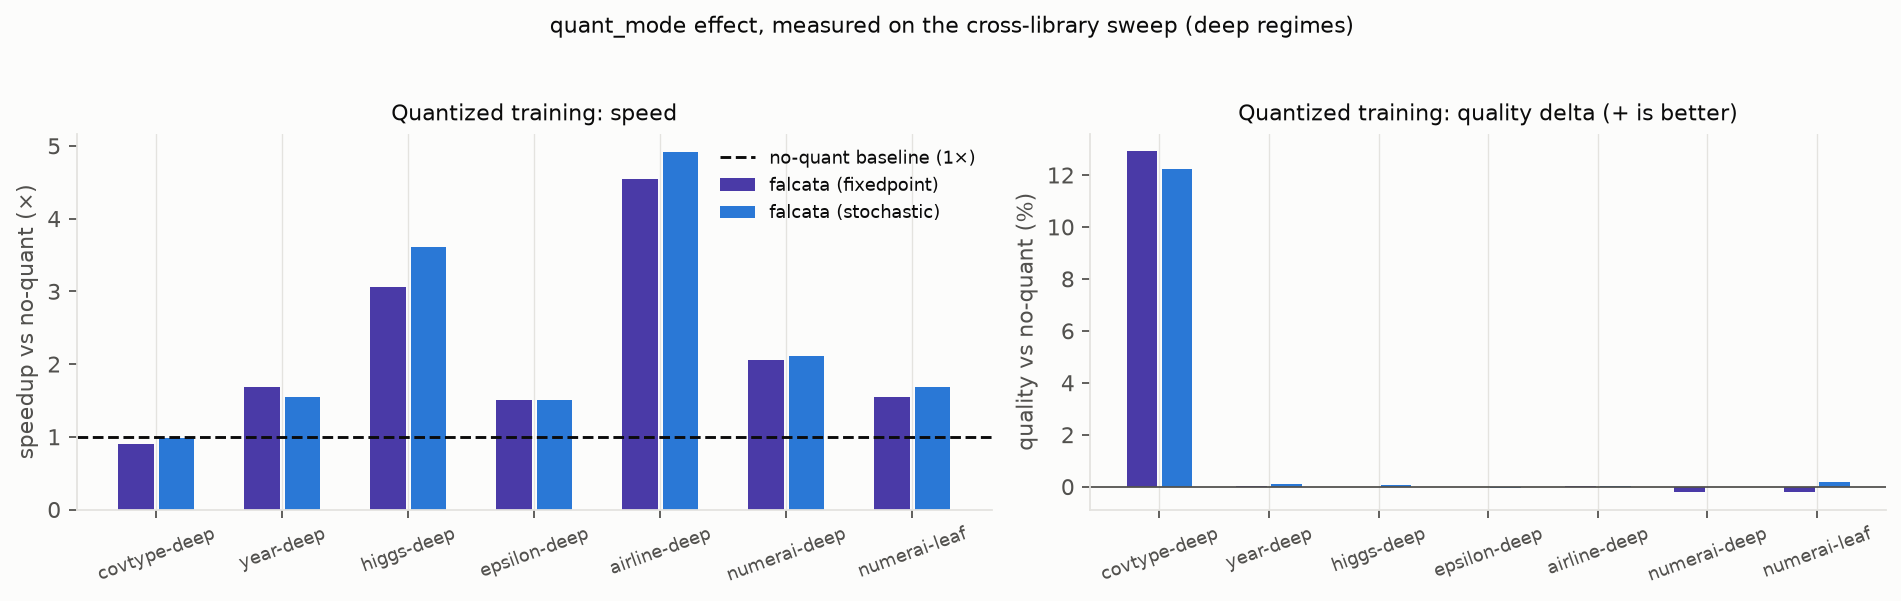
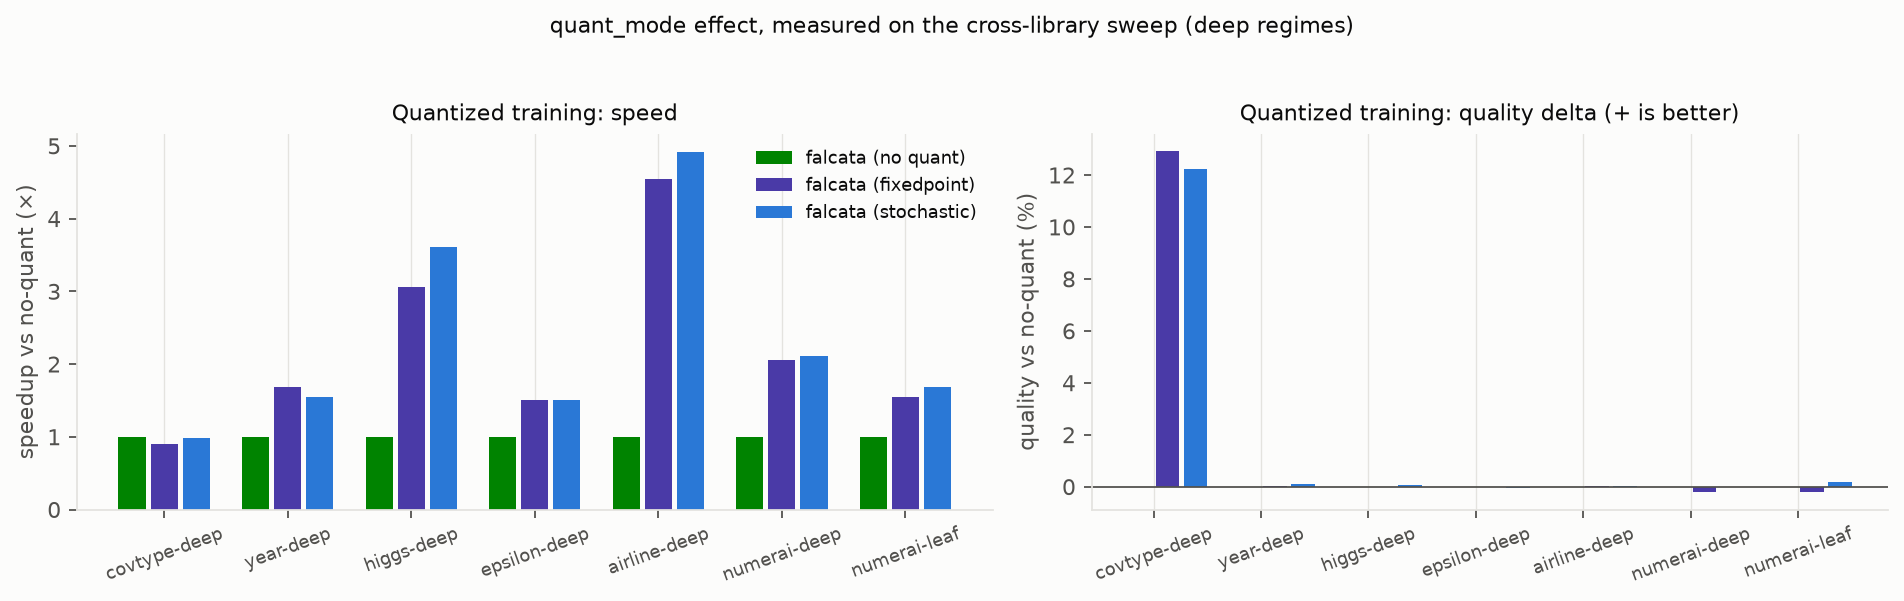
docs: give no-quant its own bar in the quant-mode speed plot
Was a dashed 1x rule to compare the two quantized bars against. A bar per
dataset instead, same treatment as the scoreboard plot: comparing bar heights
inside a group is easier than bar-against-rule, and it makes the one cell where
quantization is a slowdown -- covtype-deep, both modes under the green -- read
at a glance instead of needing the eye to track a line across the axes.

The quality panel keeps its zero rule: that is the axis reference for a delta,
not a baseline series, so a bar of height zero would say nothing.

diff --git a/docs/perf-plots/generate.py b/docs/perf-plots/generate.py
@@ -250,17 +250,23 @@ def plot_quant_modes():
         return reg if reg.startswith("numerai") else f"{ds}-{reg}"
 
     labels = [dr_label(*dr) for dr in drs]
-    modes = ["falcata-fixed", "falcata-stoch"]
+    # no-quant is a bar of its own (1x by definition) rather than a baseline
+    # line: a reader compares bar heights within a group far more easily than
+    # bar-to-rule, and it keeps the group self-contained.
+    modes = ["falcata-noquant", "falcata-fixed", "falcata-stoch"]
     fig, (ax1, ax2) = plt.subplots(1, 2, figsize=(12, 3.6), gridspec_kw={"width_ratios": [1.15, 1]})
     x = range(len(drs))
-    w = 0.32
+    w = 0.26
     for i, lib in enumerate(modes):
         sp = []
         for ds, reg in drs:
             m = MED.get((lib, ds, reg))
             b = MED.get(("falcata-noquant", ds, reg))
-            sp.append(b["train_s"] / m["train_s"] if (m and b) else 0)
-        xs_i = [xx + (i - 0.5) * w for xx in x]
+            if lib == "falcata-noquant":
+                sp.append(1.0 if b else 0)
+            else:
+                sp.append(b["train_s"] / m["train_s"] if (m and b) else 0)
+        xs_i = [xx + (i - 1) * w for xx in x]
         ax1.bar(xs_i, sp, width=w - 0.04, color=LIB_COLOR[lib], label=LIB_LABEL[lib])
         for xx, v, dr in zip(xs_i, sp, drs):
             if v == 0:
@@ -275,7 +281,6 @@ def plot_quant_modes():
                     color=TEXT,
                     weight="bold",
                 )
-    ax1.axhline(1.0, color=TEXT, linewidth=1.3, linestyle="--", label="no-quant baseline (1×)")
     ax1.set_xticks(list(x), labels, fontsize=8, rotation=20)
     ax1.set_ylabel("speedup vs no-quant (×)")
     ax1.set_title("Quantized training: speed", fontsize=10)
